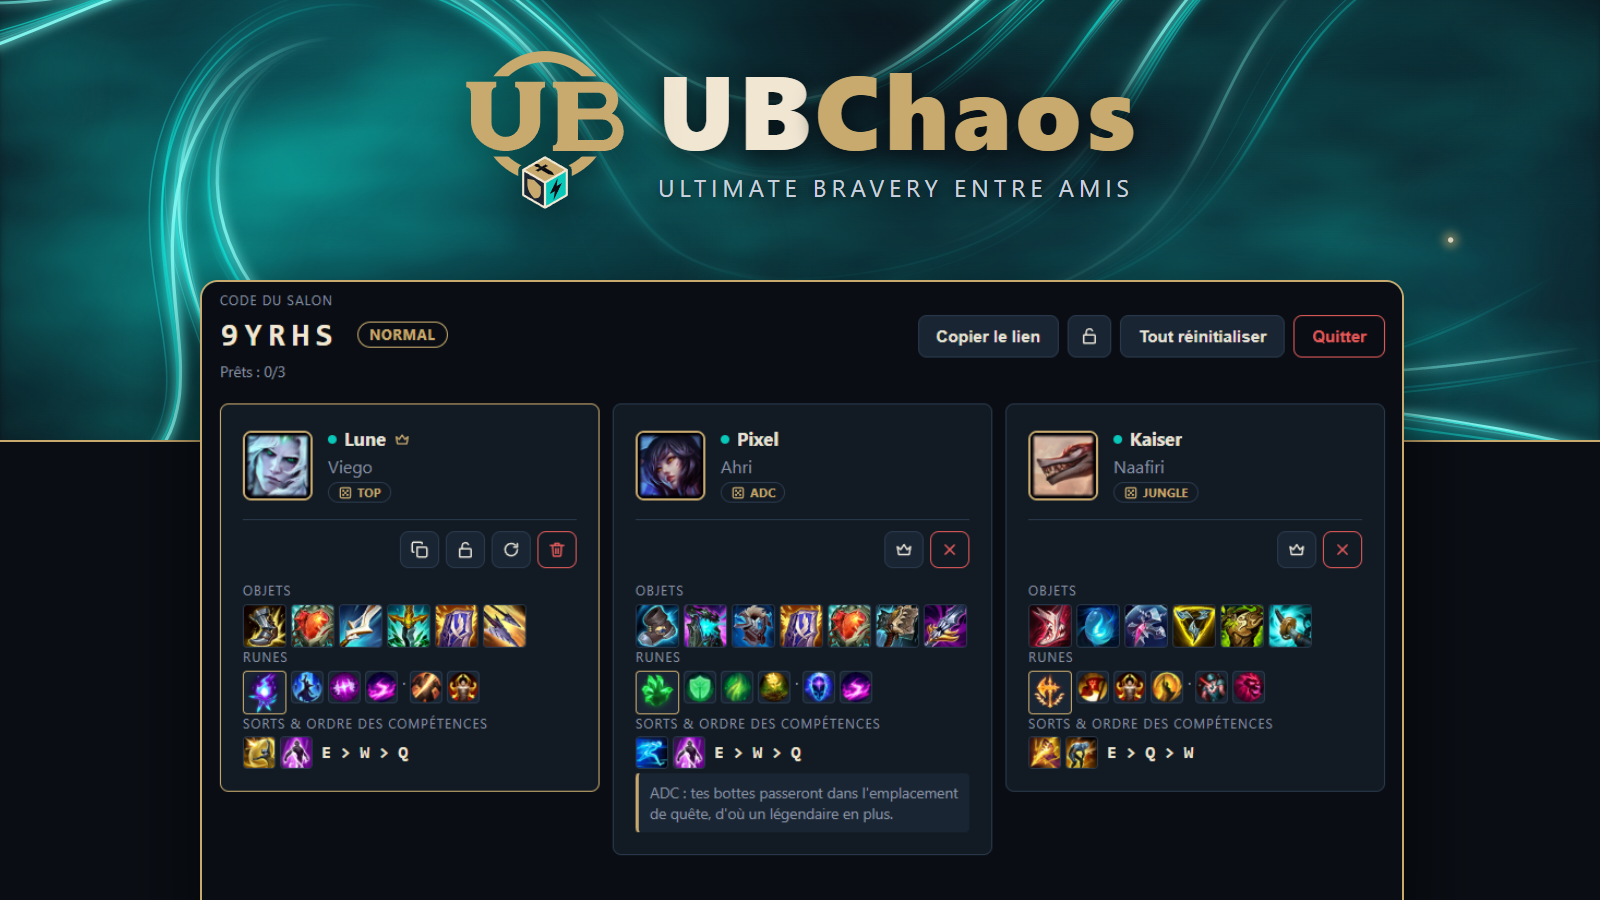
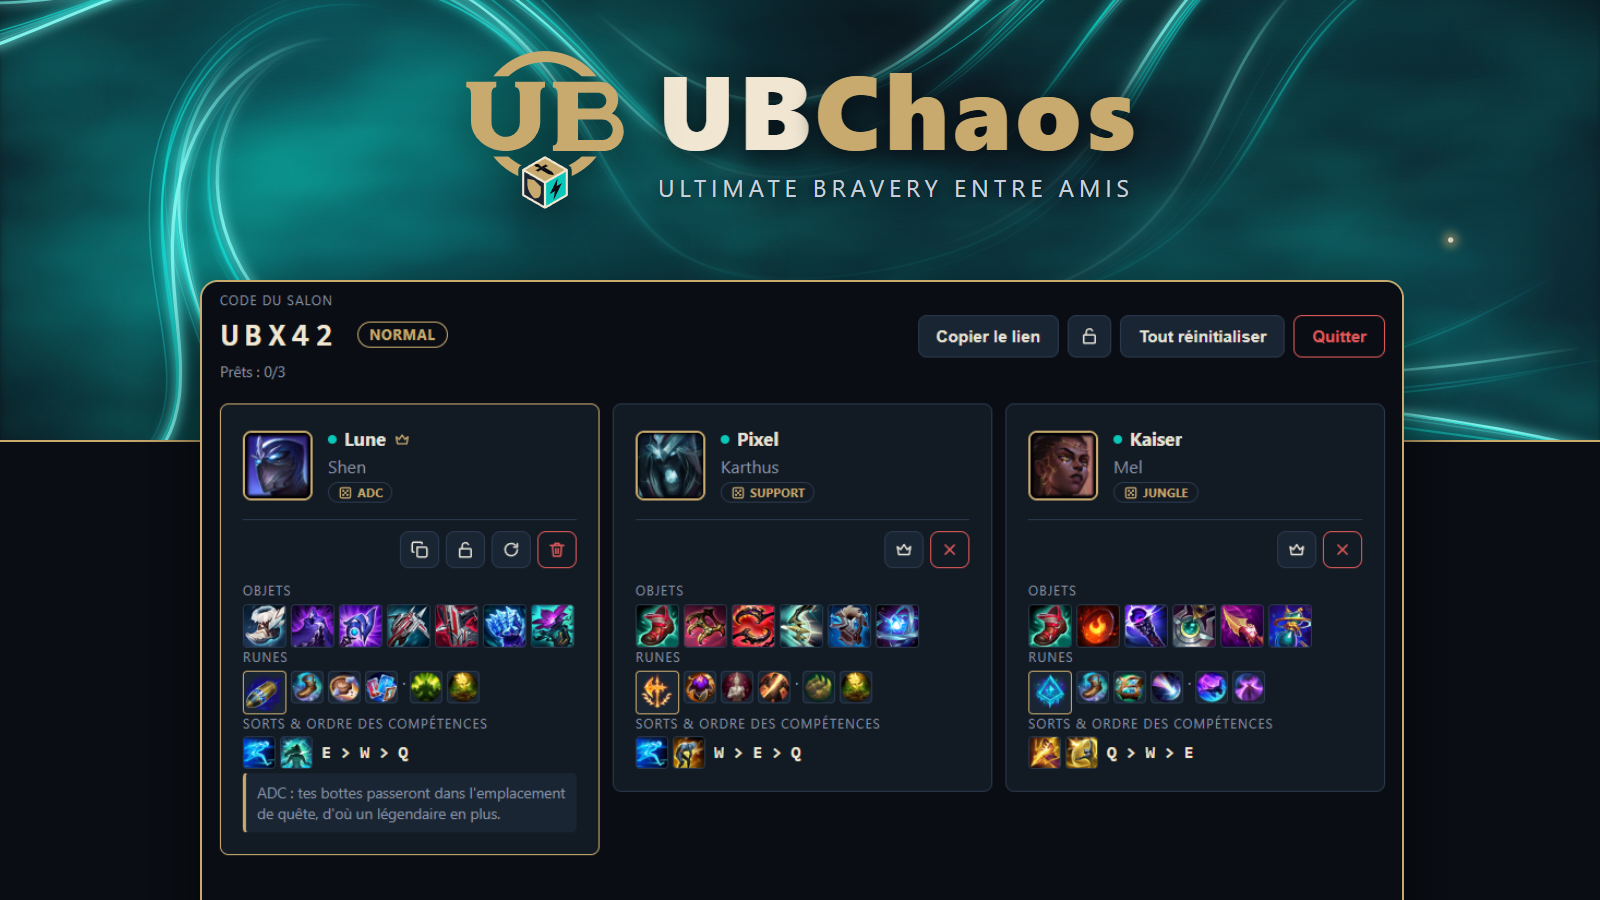
Automate the Home showcase images
- scripts/update-showcase.mjs (npm run showcase): screenshots with seeded rolls, cover, icon and link preview; images are only rewritten when they really changed.
- test/showcase.test.mjs: project.md references existing images and states the room limits and modes of the code.
- Showcase workflow on a Windows runner (Segoe UI), called after each release deployment; commits showcase/ to master when it changed.

diff --git a/scripts/showcase-cover.html b/scripts/showcase-cover.html
@@ -1,0 +1,32 @@
+<!doctype html>
+<!-- Cover of the Home showcase (showcase/cover.png, 1600x900), rendered by scripts/update-showcase.mjs:
+     the banner smoke and logo above a capture of a room. -->
+<html lang="fr">
+<head>
+<meta charset="utf-8">
+<style>
+  html, body { margin: 0; width: 1600px; height: 900px; overflow: hidden; background: #0a0e14; font-family: system-ui, -apple-system, "Segoe UI", sans-serif; }
+  .band { position: absolute; left: 0; top: 0; width: 1600px; height: 440px; overflow: hidden; border-bottom: 2px solid #c8aa6e; background: #0b1119; }
+  .band img { width: 1600px; height: 440px; object-fit: cover; object-position: 50% 40%; }
+  .head { position: absolute; left: 0; right: 0; top: 44px; display: flex; align-items: center; justify-content: center; gap: 28px; }
+  .mark { width: 170px; height: 170px; filter: drop-shadow(0 6px 24px rgba(5, 8, 12, 0.8)); }
+  .title { font-weight: 800; font-size: 104px; line-height: 1; letter-spacing: 0.04em; color: #f0e6d2; text-shadow: 0 4px 24px rgba(5, 8, 12, 0.85); }
+  .title span { color: #c8aa6e; }
+  .tagline { margin-top: 12px; color: #c9d1dc; font-size: 24px; letter-spacing: 0.2em; text-transform: uppercase; text-shadow: 0 2px 12px rgba(5, 8, 12, 0.95); }
+  /* The room capture is 1440x900: show its 1100x540 content area from (170, 80), scaled to 1200 px wide. */
+  .shot { position: absolute; left: 200px; top: 280px; width: 1200px; height: 660px; overflow: hidden; border: 2px solid #c8aa6e; border-radius: 18px; box-shadow: 0 24px 70px rgba(0, 0, 0, 0.7); }
+  .shot img { position: absolute; width: 1571px; left: -185px; top: -87px; }
+</style>
+</head>
+<body>
+  <div class="band"><img src="og-smoke.svg" alt=""></div>
+  <div class="head">
+    <img class="mark" src="../public/logo.svg" alt="">
+    <div>
+      <div class="title">UB<span>Chaos</span></div>
+      <div class="tagline">Ultimate Bravery entre amis</div>
+    </div>
+  </div>
+  <div class="shot"><img src="../showcase/screenshots/salon.png" alt=""></div>
+</body>
+</html>

diff --git a/CLAUDE.md b/CLAUDE.md
@@ -9,6 +9,7 @@ Ultimate Bravery rooms for League of Legends, on Cloudflare Workers + Durable Ob
 - Tests: `npm test` (node:test, ~30 s): `test/bravery.test.mjs` roll rules on live Data Dragon, `test/room.test.mjs` room rules over WebSockets, `test/e2e.test.mjs` browser flows with puppeteer-core. Each server-backed file starts its own `wrangler dev` (ports 8791/8792, temp storage); e2e needs a Chromium-based browser (`CHROME_PATH`, auto-detects Chrome/Edge). The release workflow runs them before deploying. Add or update tests with each feature.
 - Link previews: the Worker serves `/` and `/r/*` and fills the Open Graph tags (room details, absolute URLs) with HTMLRewriter. Preview images are rendered from `scripts/og-image.html` by `node scripts/render-og-image.mjs` and committed: `public/og-image.png` for the site, and `public/og/<mode>-<choices>-<rerolls|x>.jpg` for each room setting combination (re-run it when modes or room limits change).
 - Item groups (items that cannot be owned together): Data Dragon lacks them, so `public/item-groups.js` is generated from the game files on CommunityDragon by `node scripts/update-item-groups.mjs` (never edit it by hand, no per-mode exceptions). A test fails when it is outdated (skipped if CommunityDragon is down). The `Item groups` workflow runs daily: when the groups changed since the latest release, the bot publishes a patch release built from that release tag (the tag is off master, so pending changes are never released by the bot) and commits the same table, version and changelog section to master. Any failure opens one `item-groups-sync` issue.
+- Showcase: `showcase/` is read by the Home site that lists my projects. `project.md` is written by hand (validated with me; never invent text): `test/showcase.test.mjs` fails when its room limits or modes drift from the code. Its images (screenshots, cover from `scripts/showcase-cover.html`, icon, link preview) are regenerated by `npm run showcase` with seeded rolls, and by the `Showcase` workflow (Windows runner, for Segoe UI) after each release, which commits them to master when they changed. A failure opens one `showcase-sync` issue.
 - Monitoring: the `Monitor` workflow runs `node scripts/smoke-test.mjs` daily against production (pages, game data, a real room over WebSocket). A failure opens one `production-down` issue; the next successful check closes it. Run it against any deployment with `node scripts/smoke-test.mjs <base url>`.
 - Production: https://ubchaos.theston.workers.dev (workers.dev subdomain of the Cloudflare account, shared by its other Workers).
 
